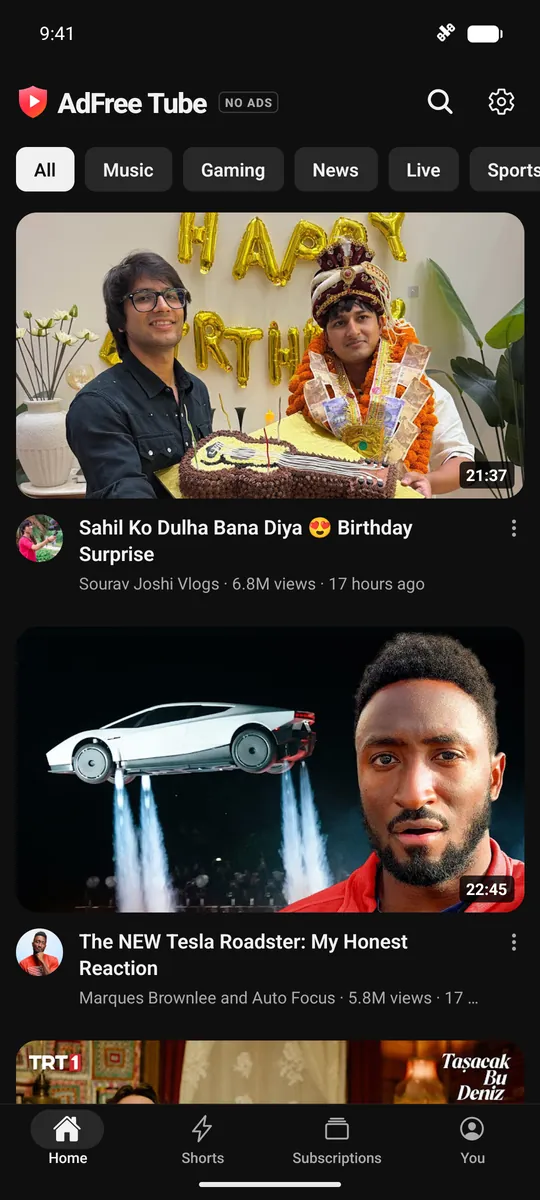
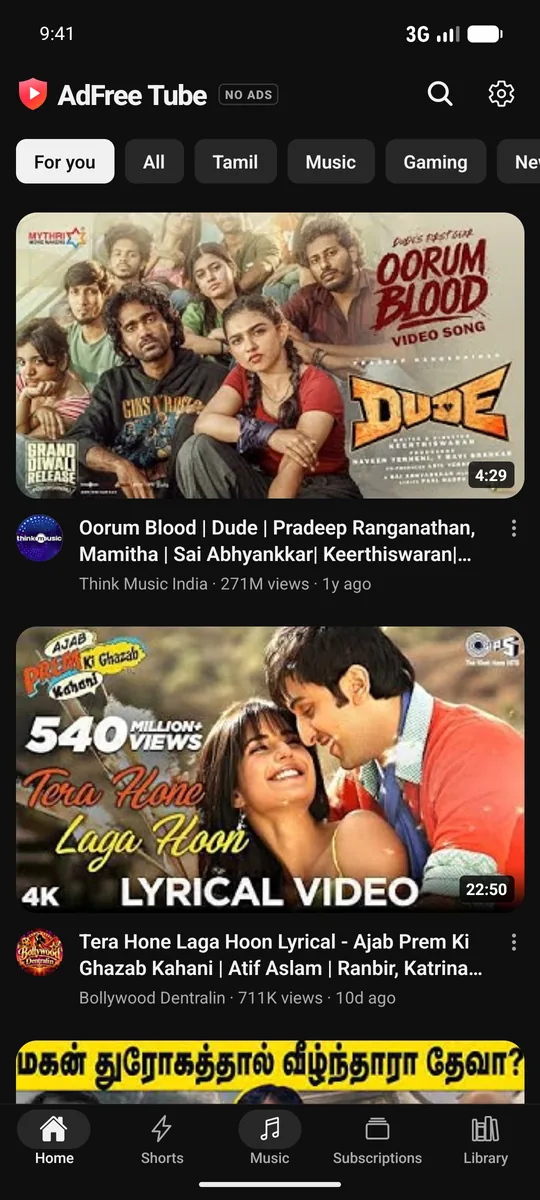
Landing: 1.3.0 features (Music, Library, For you, DeArrow, keyword filter, watch time, backup), new screenshots, what's new line

diff --git a/index.html b/index.html
@@ -4,10 +4,10 @@
   <meta charset="utf-8" />
   <meta name="viewport" content="width=device-width, initial-scale=1" />
   <title>AdFree Tube — Every video. Zero ads.</title>
-  <meta name="description" content="A free, private video player for Android with no ads, background play, picture-in-picture, offline downloads, SponsorBlock and more. No account needed." />
+  <meta name="description" content="A free, private video player for Android with no ads, background play, picture-in-picture, offline downloads, a music player with synced lyrics, SponsorBlock and more. No account needed." />
   <meta name="theme-color" content="#0b0b0c" />
   <meta property="og:title" content="AdFree Tube — Every video. Zero ads." />
-  <meta property="og:description" content="No ads, background play, picture-in-picture and offline downloads. Free, private, no account." />
+  <meta property="og:description" content="No ads, background play, picture-in-picture, offline downloads and a music player with lyrics. Free, private, no account." />
   <meta property="og:image" content="assets/icon-512.png" />
   <meta property="og:type" content="website" />
   <link rel="icon" href="assets/logo.svg" type="image/svg+xml" />
@@ -115,6 +115,7 @@
     .glow { position: absolute; inset: 15% 20%; background: var(--grad); filter: blur(90px); opacity: .35; border-radius: 50%; }
 
     /* ---------- stats ---------- */
+    .hero .wrap + .wrap { display: block; }
     .stats { display: grid; grid-template-columns: repeat(4, 1fr); gap: 1px; background: var(--line); border: 1px solid var(--line); border-radius: var(--radius); overflow: hidden; margin: 30px auto 0; }
     .stat { background: var(--bg-2); padding: 22px 20px; text-align: center; }
     .stat b { display: block; font-size: 30px; font-weight: 900; letter-spacing: -0.03em; }
@@ -144,6 +145,17 @@
     .card.big { grid-column: span 2; display: flex; gap: 22px; align-items: center; }
     .card.big .bigtxt { flex: 1; }
     .tag { display: inline-block; font-size: 11px; font-weight: 700; letter-spacing: .06em; padding: 3px 8px; border-radius: 6px; background: rgba(124,92,255,.15); color: #b9a8ff; margin-left: 6px; vertical-align: 2px; }
+
+    /* ---------- music ---------- */
+    .music { display: grid; grid-template-columns: 1fr 1fr; gap: 48px; align-items: center; }
+    .music .section-lead { margin-bottom: 28px; }
+    .ticks { list-style: none; padding: 0; margin: 0; display: grid; gap: 12px; }
+    .ticks li { display: flex; gap: 12px; color: var(--dim); font-size: 15.5px; }
+    .ticks li b { color: var(--text); font-weight: 700; }
+    .ticks svg { flex: 0 0 18px; width: 18px; height: 18px; margin-top: 3px; color: var(--green); }
+    .music-shot { position: relative; display: flex; justify-content: center; }
+    .music-shot .phone { position: relative; width: 300px; }
+    .music-shot .glow { inset: 10% 15%; }
 
     /* ---------- compare ---------- */
     .compare { border: 1px solid var(--line); border-radius: var(--radius); overflow: hidden; background: var(--bg-2); }
@@ -195,7 +207,11 @@
       border: 1px solid var(--line);
     }
     .final h2 { margin-top: 18px; }
+    .final .section-lead { margin-left: auto; margin-right: auto; }
     .final .cta { justify-content: center; }
+    .whats-new { display: none; max-width: 620px; margin: 22px auto 0; font-size: 14.5px; color: var(--dim); }
+    .whats-new.on { display: block; }
+    .whats-new b { color: var(--text); }
 
     footer { padding: 50px 0 60px; color: var(--faint); font-size: 13.5px; }
     footer .wrap { display: flex; flex-wrap: wrap; gap: 14px 30px; justify-content: space-between; border-top: 1px solid var(--line); padding-top: 28px; }
@@ -218,6 +234,7 @@
       .phone { width: 220px; }
       .grid, .steps { grid-template-columns: 1fr 1fr; }
       .card.big { grid-column: span 2; }
+      .music { grid-template-columns: 1fr; gap: 36px; }
       .nav-links { display: none; }
       .nav .btn { margin-left: auto; }
     }
@@ -261,6 +278,7 @@
       <a class="brand" href="#"><svg><use href="#logo" /></svg>AdFree Tube</a>
       <div class="nav-links">
         <a href="#features">Features</a>
+        <a href="#music">Music</a>
         <a href="#compare">Compare</a>
         <a href="#screens">Screens</a>
         <a href="#install">Install</a>
@@ -277,7 +295,7 @@
       <div class="hero-copy">
         <span class="pill"><b>FREE</b> <span class="js-version-pill">Latest version for Android</span></span>
         <h1>Every video.<br /><span class="grad-text">Zero ads.</span></h1>
-        <p class="lead">A fast, private video player with everything Premium gives you — background play, picture-in-picture and offline downloads — free, with no account and no tracking.</p>
+        <p class="lead">A fast, private video player with everything Premium gives you — background play, picture-in-picture, offline downloads and a music player with synced lyrics — free, with no account and no tracking.</p>
         <div class="cta">
           <a class="btn btn-primary btn-xl js-download" href="download/AdFree-Tube.apk">
             <svg style="width:26px;height:26px"><use href="#android" /></svg>
@@ -296,7 +314,7 @@
       <div class="phones" aria-hidden="true">
         <div class="glow"></div>
         <div class="phone p2"><img src="assets/screens/shorts.webp" alt="" loading="eager" /></div>
-        <div class="phone p3"><img src="assets/screens/subs.webp" alt="" loading="eager" /></div>
+        <div class="phone p3"><img src="assets/screens/music-player.webp" alt="" loading="eager" /></div>
         <div class="phone p1"><img src="assets/screens/watch.webp" alt="Watching a video in AdFree Tube" loading="eager" /></div>
       </div>
     </div>
@@ -339,7 +357,7 @@
           <div class="card reveal">
             <div class="icon"><svg viewBox="0 0 24 24" fill="none" stroke="currentColor" stroke-width="2" stroke-linecap="round"><path d="M12 3v12m0 0l-4-4m4 4l4-4M4 17v2a2 2 0 002 2h12a2 2 0 002-2v-2"/></svg></div>
             <h3>Offline downloads</h3>
-            <p>Save videos in up to 1080p, or just the audio, and watch on a plane, a train, or no signal at all.</p>
+            <p>Save videos in up to 1080p or just the audio, download whole playlists, or auto-download new uploads from chosen channels on Wi-Fi.</p>
           </div>
           <div class="card reveal">
             <div class="icon"><svg viewBox="0 0 24 24" fill="none" stroke="currentColor" stroke-width="2" stroke-linecap="round"><path d="M3 9h18M3 15h18M9 3v18"/></svg></div>
@@ -376,7 +394,55 @@
             <h3>Sleep timer & more</h3>
             <p>Sleep timer, loop, playback speed, queue, chapters, captions and comments.</p>
           </div>
+          <div class="card reveal">
+            <div class="icon"><svg viewBox="0 0 24 24" fill="none" stroke="currentColor" stroke-width="2" stroke-linecap="round" stroke-linejoin="round"><path d="M12 3l1.9 5.1L19 10l-5.1 1.9L12 17l-1.9-5.1L5 10l5.1-1.9z"/><path d="M19 15l.8 2.2L22 18l-2.2.8L19 21l-.8-2.2L16 18l2.2-.8z"/></svg></div>
+            <h3>"For you", built on your phone</h3>
+            <p>A Home feed picked from what you actually watch, worked out on your phone, so your viewing never leaves it.</p>
+          </div>
+          <div class="card reveal">
+            <div class="icon"><svg viewBox="0 0 24 24" fill="none" stroke="currentColor" stroke-width="2" stroke-linecap="round"><path d="M3 6h13M3 12h13M3 18h8M19 14v7M15.5 17.5h7"/></svg></div>
+            <h3>Library & playlists</h3>
+            <p>Make your own playlists from any video, then play all, shuffle or download the lot. History and Watch later live here too.</p>
+          </div>
+          <div class="card reveal">
+            <div class="icon"><svg viewBox="0 0 24 24" fill="none" stroke="currentColor" stroke-width="2" stroke-linecap="round"><rect x="3" y="5" width="18" height="14" rx="2"/><path d="M7 15l3-3 2 2 3-4 2 3"/></svg></div>
+            <h3>No more clickbait<span class="tag">EXTRA</span></h3>
+            <p>DeArrow swaps shouty titles and arrow-filled thumbnails for honest titles and real frames from the video.</p>
+          </div>
+          <div class="card reveal">
+            <div class="icon"><svg viewBox="0 0 24 24" fill="none" stroke="currentColor" stroke-width="2" stroke-linecap="round"><path d="M3 5h18l-7 8v6l-4 2v-8z"/></svg></div>
+            <h3>Hide by keyword<span class="tag">EXTRA</span></h3>
+            <p>Never see videos about a show, game or topic you'd rather skip. Add the words and they're gone from every feed.</p>
+          </div>
+          <div class="card reveal">
+            <div class="icon"><svg viewBox="0 0 24 24" fill="none" stroke="currentColor" stroke-width="2" stroke-linecap="round"><path d="M3 3v18h18"/><path d="M7 15v3M11 11v7M15 13v5M19 8v10"/></svg></div>
+            <h3>Watch time & breaks<span class="tag">EXTRA</span></h3>
+            <p>See how long you watch each day and on which channels. Set a daily goal and get a gentle nudge to take a break.</p>
+          </div>
+          <div class="card reveal">
+            <div class="icon"><svg viewBox="0 0 24 24" fill="none" stroke="currentColor" stroke-width="2" stroke-linecap="round" stroke-linejoin="round"><path d="M21 12a9 9 0 11-3-6.7L21 8"/><path d="M21 3v5h-5"/></svg></div>
+            <h3>Backup & restore</h3>
+            <p>Save your subscriptions, playlists, history and progress to one file, and bring it all back on a new phone.</p>
+          </div>
         </div>
+      </div>
+    </section>
+
+    <section id="music">
+      <div class="wrap music">
+        <div class="reveal">
+          <div class="eyebrow">Music</div>
+          <h2>A music player,<br />built right in.</h2>
+          <p class="section-lead">Open the Music tab and listen with the screen off — no video, no ads, and the words to every song.</p>
+          <ul class="ticks">
+            <li><svg><use href="#check" /></svg><span><b>Synced lyrics</b> that scroll with the song, in your language's script, with the current line shown in the player bar.</span></li>
+            <li><svg><use href="#check" /></svg><span><b>Your queue, your way</b> — reorder, remove or jump ahead, and add suggestions with a tap.</span></li>
+            <li><svg><use href="#check" /></svg><span><b>Offline songs</b> — save tracks and play them from the Downloaded shelf with no signal.</span></li>
+            <li><svg><use href="#check" /></svg><span><b>Sound controls</b> — speed from 0.75× to 1.25× with or without pitch change, plus equalizer presets.</span></li>
+            <li><svg><use href="#check" /></svg><span><b>Home screen widget</b> — artwork, play/pause and next, without opening the app.</span></li>
+          </ul>
+        </div>
+        <div class="music-shot reveal"><div class="glow"></div><div class="phone"><img src="assets/screens/lyrics.webp" alt="Synced lyrics in music mode" loading="lazy" /></div></div>
       </div>
     </section>
 
@@ -395,8 +461,10 @@
               <tr><td>Background play</td><td class="no">✕</td><td class="yes">✓</td><td class="us yes">✓</td></tr>
               <tr><td>Picture-in-picture</td><td class="no">✕</td><td class="yes">✓</td><td class="us yes">✓</td></tr>
               <tr><td>Offline downloads</td><td class="no">✕</td><td class="yes">✓</td><td class="us yes">✓</td></tr>
+              <tr><td>Music with screen off</td><td class="no">✕</td><td class="yes">✓</td><td class="us yes">✓</td></tr>
               <tr><td>Skip in-video sponsors</td><td class="no">✕</td><td class="no">✕</td><td class="us yes">✓</td></tr>
               <tr><td>See dislike counts</td><td class="no">✕</td><td class="no">✕</td><td class="us yes">✓</td></tr>
+              <tr><td>Honest titles, no clickbait</td><td class="no">✕</td><td class="no">✕</td><td class="us yes">✓</td></tr>
               <tr><td>Works without an account</td><td class="yes">✓</td><td class="no">✕</td><td class="us yes">✓</td></tr>
               <tr><td>No tracking</td><td class="no">✕</td><td class="no">✕</td><td class="us yes">✓</td></tr>
               <tr class="price"><td>Price</td><td>Free</td><td>Monthly fee</td><td class="us grad-text">Free</td></tr>
@@ -413,11 +481,13 @@
         <p class="section-lead">A familiar, polished dark design — just without the noise.</p>
       </div>
       <div class="screens reveal">
-        <figure class="shot"><div class="phone"><img src="assets/screens/home.webp" alt="Home feed" loading="lazy" /></div><p>Home</p></figure>
+        <figure class="shot"><div class="phone"><img src="assets/screens/home.webp" alt="Home feed with For you" loading="lazy" /></div><p>Home</p></figure>
         <figure class="shot"><div class="phone"><img src="assets/screens/watch.webp" alt="Watch page with chapters and comments" loading="lazy" /></div><p>Watch</p></figure>
         <figure class="shot"><div class="phone"><img src="assets/screens/pip.webp" alt="Floating player over the home feed" loading="lazy" /></div><p>Floating player</p></figure>
+        <figure class="shot"><div class="phone"><img src="assets/screens/music.webp" alt="Music tab with recently played and picks for you" loading="lazy" /></div><p>Music</p></figure>
+        <figure class="shot"><div class="phone"><img src="assets/screens/music-player.webp" alt="Music mode player" loading="lazy" /></div><p>Music mode</p></figure>
         <figure class="shot"><div class="phone"><img src="assets/screens/shorts.webp" alt="Shorts" loading="lazy" /></div><p>Shorts</p></figure>
-        <figure class="shot"><div class="phone"><img src="assets/screens/subs.webp" alt="Subscriptions feed" loading="lazy" /></div><p>Subscriptions</p></figure>
+        <figure class="shot"><div class="phone"><img src="assets/screens/library.webp" alt="Library with history, watch time and playlists" loading="lazy" /></div><p>Library</p></figure>
       </div>
     </section>
 
@@ -447,6 +517,7 @@
           <details><summary>Do I need an account?</summary><p>No. Everything works without signing in. Subscriptions, history and Watch later are saved privately on your phone. You can import your existing subscriptions from Google Takeout in a few taps.</p></details>
           <details><summary>Is it safe to install?</summary><p>The app is signed, has no ads or trackers, and asks only for the permissions it needs (notifications for upload alerts and the microphone for voice search, both optional). Android warns about any app installed outside the Play Store — that's expected.</p></details>
           <details><summary>How do I update?</summary><p>When a new version is released, the app shows an "update available" banner. Tap it (or come back to this page) and install the new APK over the old one — your data stays.</p></details>
+          <details><summary>Can I move my data to a new phone?</summary><p>Yes. Go to Library → Backup and save everything (subscriptions, playlists, history, watch progress) to a file. On the new phone, install AdFree Tube and restore from that file.</p></details>
           <details><summary>Is there an iPhone version?</summary><p>Not yet — AdFree Tube is Android-only for now.</p></details>
           <details><summary>Why isn't it on the Play Store?</summary><p>Ad-free players like this aren't allowed on the Play Store, so it's distributed directly from this page, like other open video apps.</p></details>
         </div>
@@ -464,6 +535,7 @@
             <span class="txt"><span class="sub">Download for Android</span><span class="main js-size">Get the APK</span></span>
           </a>
         </div>
+        <p class="whats-new js-notes"></p>
       </div>
     </div>
   </main>
@@ -496,6 +568,13 @@
           document.querySelectorAll('.js-size').forEach(function (el) { el.textContent = 'v' + version + (cfg.apkSize ? ' · ' + mb(cfg.apkSize) : ''); });
           var u = document.querySelector('.js-updated');
           if (u && cfg.releasedAt) u.textContent = 'Updated ' + ago(cfg.releasedAt);
+          var n = document.querySelector('.js-notes');
+          if (n && cfg.latestNotes) {
+            var b = document.createElement('b');
+            b.textContent = "What's new in " + version + ': ';
+            n.append(b, cfg.latestNotes);
+            n.classList.add('on');
+          }
         })
         .catch(function () { /* keep the static text */ });
 
